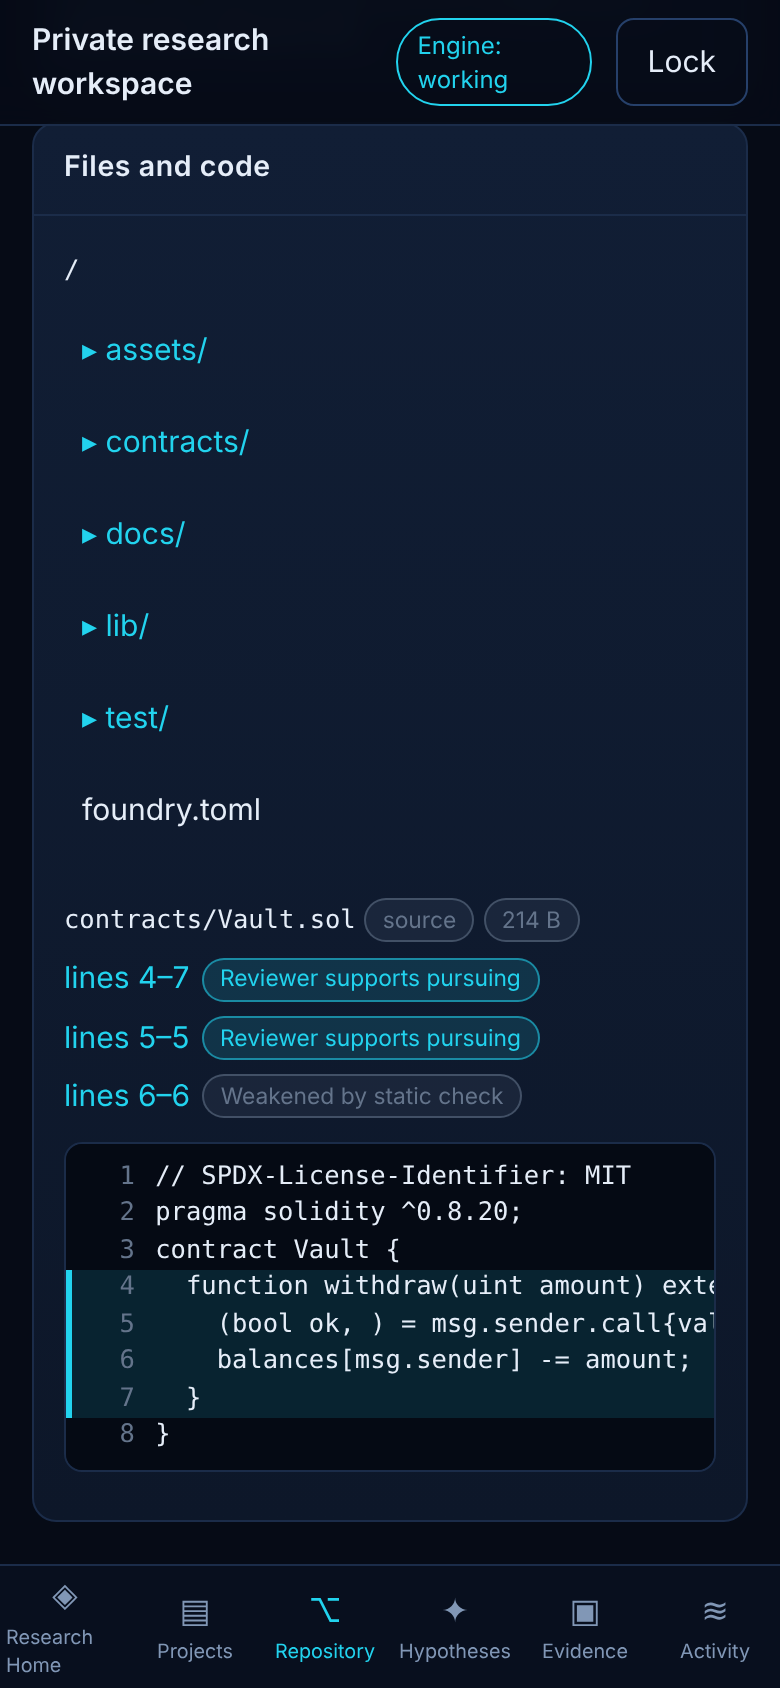
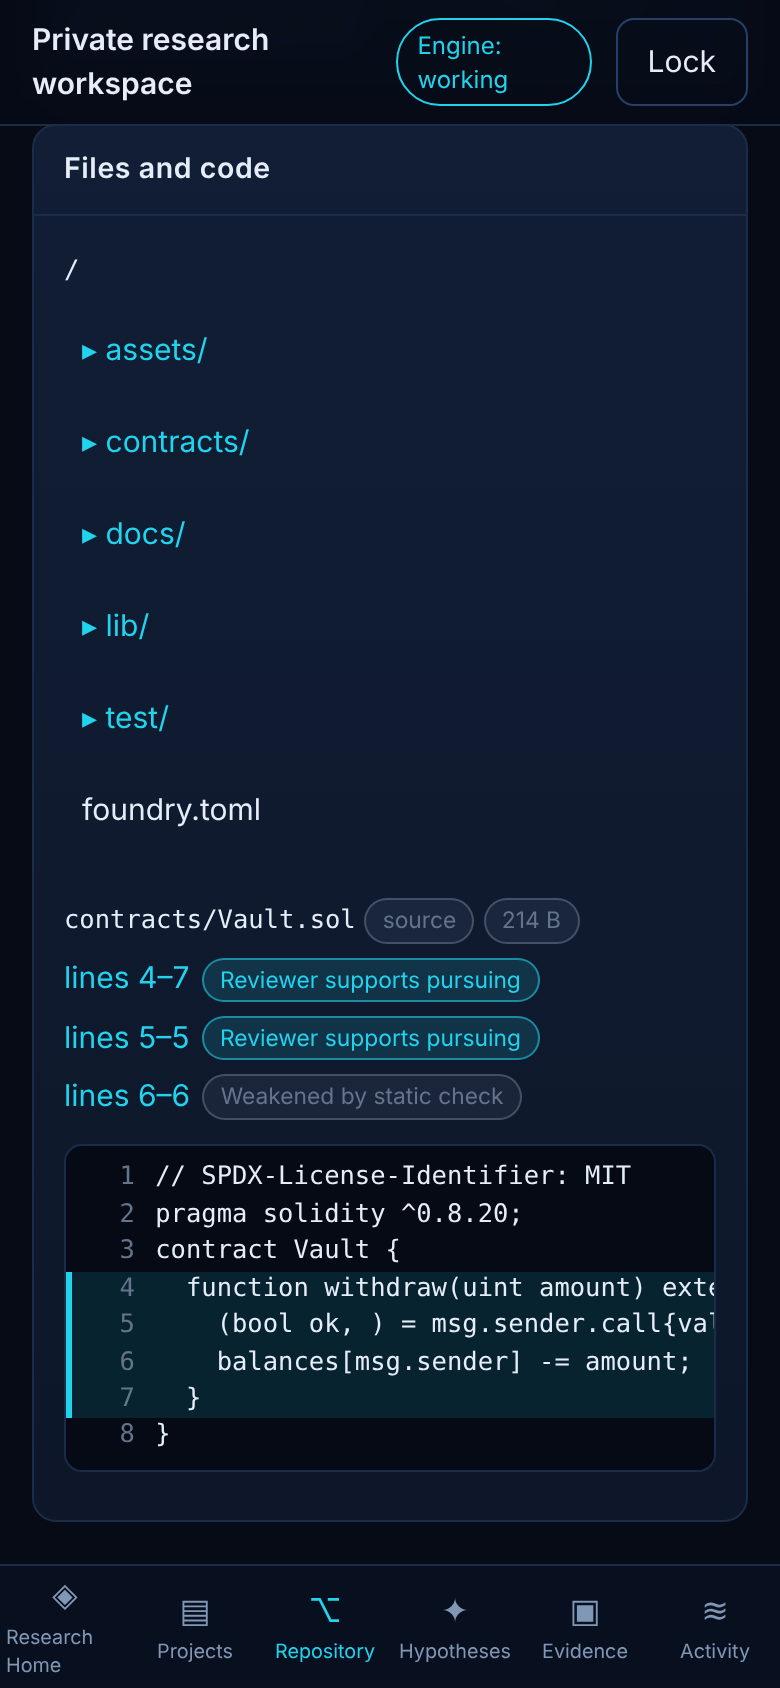
fix(5.2): release the body on early exit, split header and stall timeouts, long tree paths; layout-checked Acquisition panel
- gunzipLimited releases the source and network body when the consumer stops early
- per-request timeout now covers response headers only; a quiet body is a retryable
  stall, a slow steady download is not cut short, the wall clock bounds the total
- a tree path over 4,096 characters is reported as unrepresentable instead of
  failing the acquisition as an unexpected shape
- layout probe ignores closed <details> content; the check opens every details
  section before probing; summary touch targets raised to 44px (found by the check)
- synthetic demo snapshot carries a realistic report so the panel is covered

Claude-Session: https://claude.ai/code/session_01WqgUXPKRtWKWJd57TvffMY

diff --git a/apps/api/src/acquisition/github-source.ts b/apps/api/src/acquisition/github-source.ts
@@ -43,7 +43,7 @@ const repoSchema = z.object({
 const commitSchema = z.object({ sha: sha40, commit: z.object({ tree: z.object({ sha: sha40 }) }) });
 const treeSchema = z.object({
   sha: sha40, truncated: z.boolean(),
-  tree: z.array(z.object({ path: z.string().min(1).max(4096), mode: z.string().regex(/^[0-7]{6}$/), type: z.enum(["blob", "tree", "commit"]), sha: sha40, size: z.number().int().nonnegative().optional() })),
+  tree: z.array(z.object({ path: z.string().min(1).max(65_536), mode: z.string().regex(/^[0-7]{6}$/), type: z.enum(["blob", "tree", "commit"]), sha: sha40, size: z.number().int().nonnegative().optional() })),
 });
 
 export type GitHubSourceOptions = {
@@ -59,15 +59,21 @@ export type GitHubSourceOptions = {
   testOrigins?: { api: string; archive: string[] };
 };
 
-/** Iterates a fetch body with a reader (no reliance on async-iterable streams) and always cancels it on early exit. */
-async function* readBody(body: ReadableStream<Uint8Array> | null): AsyncGenerator<Uint8Array> {
+/**
+ * Iterates a fetch body with a reader and always cancels it on early exit. A body that goes quiet for `idleMs` is a stall, reported
+ * as a retryable timeout; a slow but steady download is never cut short by it (the acquisition's wall-clock limit bounds the total).
+ */
+async function* readBody(body: ReadableStream<Uint8Array> | null, idleMs: number): AsyncGenerator<Uint8Array> {
   if (!body) return;
   const reader = body.getReader();
   try {
     for (;;) {
-      const { done, value } = await reader.read();
-      if (done) return;
-      if (value) yield value;
+      let timer: NodeJS.Timeout | undefined;
+      const stall = new Promise<never>((_resolve, reject) => { timer = setTimeout(() => reject(new AcquisitionError("timeout", `the download went quiet for ${idleMs} ms`, true)), idleMs); });
+      let chunk: ReadableStreamReadResult<Uint8Array>;
+      try { chunk = await Promise.race([reader.read(), stall]); } finally { clearTimeout(timer); }
+      if (chunk.done) return;
+      if (chunk.value) yield chunk.value;
     }
   } finally {
     await reader.cancel().catch(() => undefined);
@@ -117,12 +123,17 @@ export class GitHubSource implements RepositorySource {
     for (let hop = 0; hop <= this.limits.maxRedirects; hop += 1) {
       const headers: Record<string, string> = { accept, "user-agent": USER_AGENT, "x-github-api-version": "2022-11-28" };
       if (this.options.token && url.origin === this.apiOrigin) headers.authorization = `Bearer ${this.options.token}`;
-      const timeout = AbortSignal.timeout(this.timeoutMs);
+      // The timeout covers waiting for the response headers only. The body is bounded by the caller's signal (the acquisition's
+      // wall clock) and by the idle-stall check in readBody, so a large, slow download is not aborted by a per-request timer.
+      const headerTimeout = new AbortController();
+      const timer = setTimeout(() => headerTimeout.abort(new DOMException("timed out", "TimeoutError")), this.timeoutMs);
       let response: Response;
       try {
-        response = await this.fetcher(url, { method: "GET", headers, redirect: "manual", signal: signal ? AbortSignal.any([signal, timeout]) : timeout });
+        response = await this.fetcher(url, { method: "GET", headers, redirect: "manual", signal: signal ? AbortSignal.any([signal, headerTimeout.signal]) : headerTimeout.signal });
       } catch (error) {
         throw this.networkError(error, signal);
+      } finally {
+        clearTimeout(timer);
       }
       if (response.status >= 300 && response.status < 400 && response.status !== 304) {
         const location = response.headers.get("location");
@@ -156,7 +167,7 @@ export class GitHubSource implements RepositorySource {
     const chunks: Buffer[] = [];
     let total = 0;
     try {
-      for await (const piece of readBody(response.body)) {
+      for await (const piece of readBody(response.body, this.timeoutMs)) {
         total += piece.byteLength;
         if (total > this.limits.maxApiResponseBytes) { await response.body?.cancel().catch(() => undefined); throw new AcquisitionError("limit_exceeded", `${label} is larger than ${this.limits.maxApiResponseBytes} bytes`, false, undefined, { limit: "api_response_bytes" }); }
         chunks.push(Buffer.from(piece.buffer, piece.byteOffset, piece.byteLength));
@@ -207,10 +218,11 @@ export class GitHubSource implements RepositorySource {
     const body = response.body;
     if (!body) throw new AcquisitionError("unexpected_response", "the archive response has no body");
     const wrap = this.networkError.bind(this);
+    const idleMs = this.timeoutMs;
     return {
       finalHost: new URL(response.url || this.apiOrigin).host,
       body: (async function* () {
-        try { for await (const chunk of readBody(body)) yield chunk; } catch (error) { throw wrap(error, signal); }
+        try { for await (const chunk of readBody(body, idleMs)) yield chunk; } catch (error) { throw wrap(error, signal); }
       })(),
     };
   }

diff --git a/apps/api/src/acquisition/github-source.test.ts b/apps/api/src/acquisition/github-source.test.ts
@@ -49,6 +49,10 @@ describe("GitHubSource over real HTTP (loopback fakes standing in for the API an
     expect(api.hits[0]!.headers["user-agent"]).toMatch(/agentsmith-multihub-acquisition/);
     expect(api.hits[0]!.headers["x-github-api-version"]).toBe("2022-11-28");
   });
+  it("accepts a very long path in a tree listing (the planner reports it as unrepresentable instead of the whole acquisition failing)", async () => {
+    apiHandler = (_q, res) => json(res, { sha: TREE, truncated: false, tree: [{ path: "x".repeat(5000), mode: "100644", type: "blob", sha: "c".repeat(40), size: 1 }] });
+    expect((await source().getTree("acme", "vault", TREE)).entries[0]!.path).toHaveLength(5000);
+  });
   it("encodes each ref segment and defaults to HEAD", async () => {
     apiHandler = (_q, res) => json(res, commitBody);
     await source().resolveCommit("acme", "vault", "feature/x y".replace(" ", "-"));
@@ -151,6 +155,31 @@ describe("GitHubSource over real HTTP (loopback fakes standing in for the API an
     it("a stalled response times out as retryable", async () => {
       apiHandler = () => undefined;
       const e = await code(source({ requestTimeoutMs: 150 }).openArchive("acme", "vault", SHA));
+      expect(e).toMatchObject({ code: "timeout", retryable: true });
+    });
+    it("a body that goes quiet part-way is a retryable stall, not an endless wait", async () => {
+      apiHandler = (_req, res) => { res.writeHead(200, { "content-length": "100000" }); res.write(Buffer.alloc(1000)); /* then silence */ };
+      const opened = await source({ requestTimeoutMs: 200 }).openArchive("acme", "vault", SHA);
+      const started = Date.now();
+      const e = await code(drain(opened.body));
+      expect(e).toMatchObject({ code: "timeout", retryable: true });
+      expect(Date.now() - started).toBeLessThan(2000);
+    });
+    it("a slow but steady download is NOT cut short by the per-request timeout", async () => {
+      const total = 8 * 4096;
+      apiHandler = (_req, res) => {
+        res.writeHead(200, { "content-length": String(total) });
+        let sent = 0;
+        const timer = setInterval(() => { res.write(Buffer.alloc(4096, 1)); sent += 4096; if (sent >= total) { clearInterval(timer); res.end(); } }, 60);
+      };
+      const opened = await source({ requestTimeoutMs: 200 }).openArchive("acme", "vault", SHA); // 8 chunks x 60 ms = ~480 ms, longer than the 200 ms timeout
+      expect((await drain(opened.body)).length).toBe(total);
+    });
+    it("still honours the caller's overall deadline while the body is streaming", async () => {
+      apiHandler = (_req, res) => { res.writeHead(200); const t = setInterval(() => res.write("x"), 20); res.on("close", () => clearInterval(t)); };
+      const controller = new AbortController(); setTimeout(() => controller.abort(), 120);
+      const opened = await source({ requestTimeoutMs: 5000 }).openArchive("acme", "vault", SHA, controller.signal);
+      const e = await code(drain(opened.body));
       expect(e).toMatchObject({ code: "timeout", retryable: true });
     });
     it("a connection that drops mid-download is a retryable network error, not a short archive", async () => {

diff --git a/apps/api/src/acquisition/tar-reader.test.ts b/apps/api/src/acquisition/tar-reader.test.ts
@@ -1,6 +1,6 @@
-import { createHash } from "node:crypto";
+import { createHash, randomBytes } from "node:crypto";
 import { gzipSync } from "node:zlib";
-import { afterAll, describe, expect, it } from "vitest";
+import { afterAll, describe, expect, it, vi } from "vitest";
 import { AcquisitionError } from "./errors.js";
 import { gunzipLimited, readTar, type CompressedStats, type TarEntry } from "./tar-reader.js";
 import { END, dir, file, gz, header, paxHeader, symlink, tar } from "./testing/tar-writer.js";
@@ -180,6 +180,17 @@ describe("bounded gunzip", () => {
   it("an empty body is not a valid archive once the tar layer sees it", async () => {
     const empty = await inflate(Buffer.alloc(0), big).catch(() => ({ out: Buffer.alloc(0) }));
     expect(await code(parse(empty.out))).toBe("archive_malformed");
+  });
+  it("releases the network body at once when the consumer rejects the archive early", async () => {
+    let closed = false; let produced = 0;
+    const bad = gz(tar(file("top/a", "x", { checksum: "bad" }), END, randomBytes(2_000_000))); // incompressible, so the stream is long
+    async function* source() {
+      try { for (let i = 0; i < bad.length; i += 512) { produced += 1; yield bad.subarray(i, i + 512); await new Promise((r) => setImmediate(r)); } } finally { closed = true; }
+    }
+    const s = stats();
+    await expect(readTar(gunzipLimited(source(), big, s), { maxUncompressedBytes: 1 << 30, maxEntries: 100 }, { onGlobalComment() {}, onEntry: () => null })).rejects.toMatchObject({ code: "archive_malformed" });
+    await vi.waitFor(() => expect(closed).toBe(true), { timeout: 2000 });
+    expect(produced).toBeLessThan(Math.ceil(bad.length / 512));           // the producer was stopped, not drained
   });
   it("a tar inside gzip that ends mid-entry is truncation", async () => {
     const full = tar(file("top/a", "x".repeat(5000)), END);

diff --git a/scripts/hub-layout-probe.js b/scripts/hub-layout-probe.js
@@ -7,7 +7,17 @@
   const isScroller = (el) => /(auto|scroll)/.test(getComputedStyle(el).overflowX);
   const inScroller = (el) => { for (let p = el.parentElement; p && p !== document.body; p = p.parentElement) if (isScroller(p)) return true; return false; };
   const clips = (el) => { const s = getComputedStyle(el); return /(hidden|clip)/.test(s.overflowX) || /(hidden|clip)/.test(s.overflowY); };
-  const hiddenEl = (el) => { for (let p = el; p; p = p.parentElement) { const s = getComputedStyle(p); if (s.display === "none" || s.visibility === "hidden") return true; } return false; };
+  // Content of a closed <details> (outside its <summary>) has layout boxes but is not painted, so it cannot overlap anything.
+  const hiddenEl = (el) => {
+    let inSummary = false;
+    for (let p = el; p; p = p.parentElement) {
+      const s = getComputedStyle(p);
+      if (s.display === "none" || s.visibility === "hidden") return true;
+      if (p.tagName === "SUMMARY") inSummary = true;
+      if (p.tagName === "DETAILS" && !p.open && !inSummary) return true;
+    }
+    return false;
+  };
   // vertical slack is a fraction of the line, because a font's content box can be a little taller than a tight line-height
   const within = (r, box, tol) => { const v = Math.max(tol, r.height * 0.15); return r.left >= box.left - tol && r.right <= box.right + tol && r.top >= box.top - v && r.bottom <= box.bottom + v; };
   const overlays = (el) => { for (let p = el; p; p = p.parentElement) { const pos = getComputedStyle(p).position; if (pos === "fixed" || pos === "sticky") return true; } return false; };

diff --git a/scripts/hub-layout-check.ts b/scripts/hub-layout-check.ts
@@ -49,6 +49,8 @@ async function main(): Promise<void> {
         await page.reload();
         await page.waitForSelector(".content .view, .content .home-grid", { timeout: 10_000 });
         await page.waitForFunction(() => !document.querySelector(".state-loading"), undefined, { timeout: 10_000 });
+        // Expanded sections are what a reader sees after tapping, so they are checked too.
+        await page.evaluate(() => document.querySelectorAll("details").forEach((d) => { d.open = true; }));
         const problems = (await page.evaluate(`(${probe})(${JSON.stringify({ touch })})`)) as Array<{ kind: string; detail: string }>;
         checks += 1;
         for (const p of problems.slice(0, 6)) fail(where, `${p.kind}: ${p.detail}`);

diff --git a/apps/web/public/styles.css b/apps/web/public/styles.css
@@ -126,7 +126,7 @@ textarea { min-height: 70px; }
 .timeline { padding-left: 1.2rem; display: grid; gap: .6rem; } .saw { list-style: none; padding: 0; display: flex; flex-wrap: wrap; gap: .4rem .9rem; margin: .3rem 0; }
 .evidence-item { margin-bottom: 1rem; min-width: 0; overflow-wrap: anywhere; }
 .panel-body > *, .stack > *, .view > * { min-width: 0; }
-details { margin: .5rem 0; } summary { cursor: pointer; min-height: 32px; }
+details { margin: .5rem 0; } summary { cursor: pointer; display: list-item; min-height: 44px; padding: .65rem 0; box-sizing: border-box; }
 
 /* unlock */
 .unlock { min-height: 100vh; display: grid; place-items: center; padding: 1rem; }

diff --git a/apps/api/src/acquisition/tar-reader.ts b/apps/api/src/acquisition/tar-reader.ts
@@ -257,11 +257,14 @@ export async function* gunzipLimited(
       yield chunk;
     }
   } catch (error) {
-    readable.destroy(); gunzip.destroy();
     if (error instanceof AcquisitionError) throw error;
     const code = (error as { code?: string }).code ?? "";
     if (code.startsWith("Z_")) throw malformed(`the archive is not a valid gzip stream (${code})`);
     throw error;
+  } finally {
+    // Also runs when the consumer stops early (for example the tar parser rejects the archive): the source, and with it the network
+    // body, is released immediately rather than left open until garbage collection.
+    readable.destroy(); gunzip.destroy();
   }
 }
 
